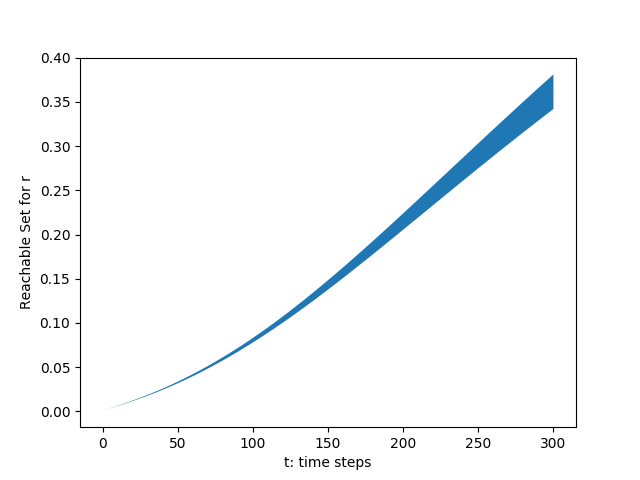
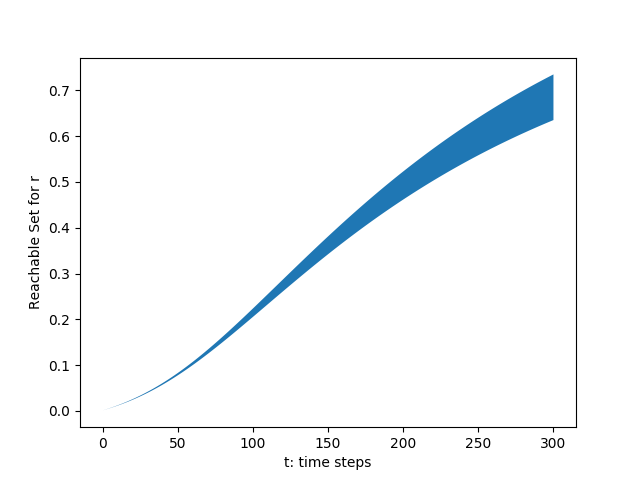
Added last of figures for Phosphoraley

diff --git a/kaa/bundle.py b/kaa/bundle.py
@@ -111,10 +111,10 @@ class BundleTransformer:
             new_offu[row_ind] = min(max_val, new_offu[row_ind])
             new_offl[row_ind] = min(-1 * min_val, new_offl[row_ind])
 
-        print("\n New Offu: {0}   New Offp = {1}\n".format(new_offu[2], new_offl[2]))
+        print("\n New Offu: {0}   New Offp = {1}\n".format(new_offu[1], new_offl[1]))
         trans_bund = Bundle(bund.T, bund.L, new_offu, new_offl, bund.vars)
-        canon_bund = trans_bund.canonize()
-        return canon_bund
+        #canon_bund = trans_bund.canonize()
+        return trans_bund
 
     """
     Returns extrema of c^T \cdot f over the parallelotope bundle, P.

diff --git a/tests/models/test_phos.py b/tests/models/test_phos.py
@@ -12,9 +12,11 @@ def test_Phos():
     timer = Benchmark.assign_timer(Label.TOTAL)
     timer.start()
 
-    mod_flow = mod_reach.computeReachSet(300)
+    mod_flow = mod_reach.computeReachSet(200)
 
     timer.end()
 
-    FlowPipePlotter(mod_flow).plot2DProj(0,1,2)
+    FlowPipePlotter(mod_flow).plot2DProj(0)
+    FlowPipePlotter(mod_flow).plot2DProj(1)
+    FlowPipePlotter(mod_flow).plot2DProj(2)
     Benchmark.generate_stats()

diff --git a/models/sir.py b/models/sir.py
@@ -10,9 +10,9 @@ class SIR(Model):
 
       s, i, r = sp.Symbol('s'), sp.Symbol('i'), sp.Symbol('r')
 
-      ds = s - (0.34*s*i)*0.05;
-      di = i + (0.34*s*i - 0.05*i)*0.05;
-      dr = r + 0.05*i*0.05;
+      ds = s - (0.34*s*i)*0.1;
+      di = i + (0.34*s*i - 0.05*i)*0.1;
+      dr = r + 0.05*i*0.1;
 
       dyns = [ds, di, dr]
       vars = [s, i, r] #In predetermined order

diff --git a/tests/models/test_sir.py b/tests/models/test_sir.py
@@ -16,5 +16,7 @@ def test_SIR():
     timer.end()
 
     FlowPipePlotter(mod_flow).plot2DProj(0)
+    FlowPipePlotter(mod_flow).plot2DProj(1)
+    FlowPipePlotter(mod_flow).plot2DProj(2)
 
     Benchmark.generate_stats()

diff --git a/models/phos.py b/models/phos.py
@@ -25,7 +25,7 @@ class Phosphorelay(Model):
 
         dyns = [dx1,dx2,dx3,dx4,dx5,dx6,dx7];
 
-        num_dirs = 10;
+        num_dirs = 10
         num_temps = 2
 
         L = np.zeros([num_dirs,dim_sys])
